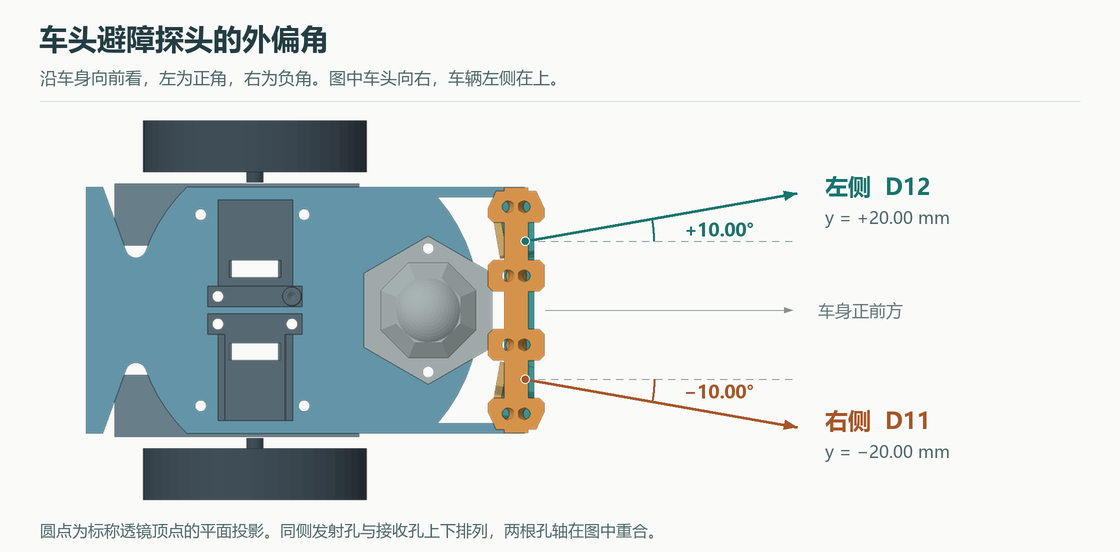
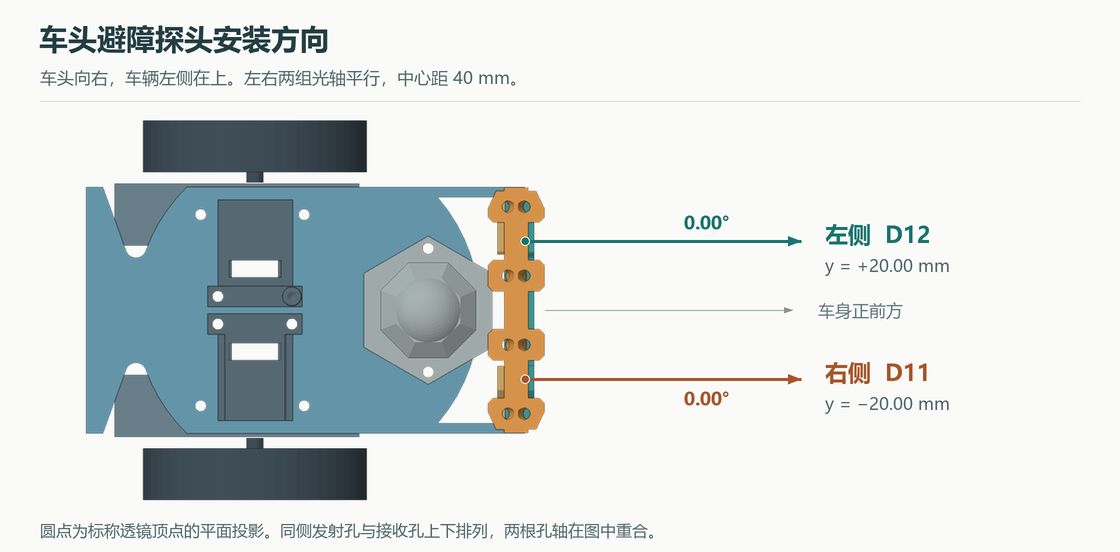
Snapshot local zero-yaw obstacle mount revision for the comparison runs

diff --git a/sim/fwsim/viewer.html b/sim/fwsim/viewer.html
@@ -185,7 +185,7 @@ if (V.plan) {
   }
   $('cadYaw').textContent = axes.map(a => {
     const deg = a.yaw * 180 / Math.PI;
-    return a.name + ' ' + (deg < 0 ? '−' : '+') + Number(Math.abs(deg).toFixed(2)) + '°';
+    return a.name + ' ' + (deg < 0 ? '−' : deg > 0 ? '+' : '') + Number(Math.abs(deg).toFixed(2)) + '°';
   }).join(' · ');
   const pitch = V.noseDown * 180 / Math.PI;
   $('cadPitch').textContent = pitch === 0 ? 'Chassis pitch 0° (level)' :

diff --git a/sim/fwsim/scenarios/line_tracker.cpp b/sim/fwsim/scenarios/line_tracker.cpp
@@ -79,18 +79,19 @@ void checkObstacleMount(Simulation& sim) {
   Vehicle car(sim.vehicleConfig(), bench);
   for (auto& sensor : car.cfg.distance) sensor.noise = 0;
   for (int side : {1, -1}) {
-    for (int bearing : {10, 20, -10}) {
-      // 1 mm diameter target, 60 mm from the CAD lens position. Test the
-      // centre ray, the outer edge, and the mirror of the centre ray inboard.
+    for (int bearing : {-20, -10, 0, 10, 20}) {
+      // Probe the centre ray, both edges of the 20-degree field, and beyond each edge.
       const double forward = 0.07825 + 0.060 * std::cos(bearing * rad);
       const double lateral = side * (0.020 + 0.060 * std::sin(bearing * rad));
       bench.circles = {{{bench.start.x - lateral, bench.start.y + forward}, 0.0005, "target"}};
       int left = -1, right = -1;
       const bool pins = car.digitalInput(sim.board(Robot), D12, left) &&
                         car.digitalInput(sim.board(Robot), D11, right);
-      const bool leftHit = side > 0 && bearing > 0, rightHit = side < 0 && bearing > 0;
+      const bool inBeam = std::abs(bearing) <= 10;
+      const bool leftHit = side > 0 && inBeam, rightHit = side < 0 && inBeam;
       const std::string label = std::string(side > 0 ? "Left" : "Right") + " mount, " +
-          std::to_string(std::abs(bearing)) + (bearing > 0 ? " deg outboard" : " deg inboard");
+          (bearing == 0 ? "straight ahead" :
+           std::to_string(std::abs(bearing)) + (bearing > 0 ? " deg outboard" : " deg inboard"));
       FWSIM_CHECK(sim, pins && left == (leftHit ? LOW : HIGH) && right == (rightHit ? LOW : HIGH), label);
     }
   }

diff --git a/docs/LINE_FOLLOWING.zh-CN.md b/docs/LINE_FOLLOWING.zh-CN.md
@@ -33,12 +33,12 @@
 | 巡线探头安装高度 | 按标称封装，两颗透镜最低点均离地 5.0 mm，从夹板底面竖直向下露出 0.5 mm。 |
 | 四个巡线光斑 | 仿真在每对管子的中心正下方采样。四个地面检测点都在轮轴前 75.75 mm，A0 到 A3 依次位于 y = −30、−10、+10、+30 mm。 |
 | 避障探头 | 按 LTE-4206 / LTR-4206 标称封装，透镜顶点在轮轴前 78.25 mm，横向 ±20.00 mm。每侧发射管在上，离地 28.25 mm，接收管在下，离地 21.75 mm。 |
-| 避障孔轴方向 | 左侧 D12 为 +10.00°，右侧 D11 为 −10.00°，两侧张角 20.00°。四个导孔相对水平底盘的俯仰均为 0.00°。 |
+| 避障孔轴方向 | 左侧 D12 和右侧 D11 均朝正前方。四个导孔相对底盘的偏航和俯仰均为 0.00°，左右两组中心距 40.00 mm。 |
 | 碰撞检测 | 圆心在轮轴前 15.25 mm，按讲义取直径 150 mm。以同一点为圆心，当前 CAD 零件的地面投影需要约 149.6 mm 的直径。 |
 
 每组对管从上方装入，凸缘落在 Ø3.45 mm 管身孔与 Ø4.50 mm 沉孔之间的台阶上。两根光轴沿前后方向各向内倾 21.8°，在地面交会。离地 5.0 mm 处两轴相距 4.0 mm，夹板底面处两轴相距 4.4 mm。固定前可用 5 mm 量规复核透镜最低点。[夹板与对管安装尺寸图](ir-pair-mount.png)
 
-从避障导孔的定位台阶走向车头孔口，距中心线从 19.262 mm 增至 20.494 mm，前进 6.985 mm。仿真从标称透镜顶点发出探测射线，80 mm 量程和 20° 全视场为仿真设定。回放的 **CAD underside** 面板可同时查看四个巡线光斑和两条避障中心线。[避障孔轴方向图](obstacle-mount-yaw.png) · [车身侧视与三个支撑点](cad-ground-contact.png)
+避障导孔的前孔口比定位台阶靠前 7.05 mm，两端距车身中心线均为 20.00 mm。仿真从标称透镜顶点发出探测射线，80 mm 量程和 20° 全视场为仿真设定。回放的 **CAD underside** 面板可同时查看四个巡线光斑和两条避障中心线。[避障孔轴方向图](obstacle-mount-yaw.png) · [车身侧视与三个支撑点](cad-ground-contact.png)
 
 ## 传感器硬件
 
@@ -52,7 +52,7 @@
 
 5 cm 宽的胶带居中时，盖住内侧两个（±10 mm），外侧两个（±30 mm）是白的，但离胶带边只有 5 mm。所以"3 个变黑、其中有一个外侧"这个现象，在弯道会出现，车只偏离中线 5–15 mm 时也会出现。为此示例程序打开了 `confirmCornerByLoss`（见状态机一节）。如果外侧传感器离对侧内侧传感器的距离超过一个胶带宽（再加上光斑大小），比如 ±15/±45 mm，就不需要这个选项；但这比 CAD 里的前横梁宽。
 
-**避障对管：** 前横梁上 ±20 mm 处各装一组 LTE/LTR 对管，向外偏 10°，经过 LM393，把阈值调到离锥桶 6–8 cm 时翻转（讲义图 5）。输出低电平表示前方有物体（`OBSTACLE_ACTIVE`）。探测距离要短：在赛道终点，场地边界墙不能触发绕障。
+**避障对管：** 前横梁上 ±20 mm 处各装一组正对前方的 LTE/LTR 对管，经过 LM393，把阈值调到离锥桶 6–8 cm 时翻转（讲义图 5）。输出低电平表示前方有物体（`OBSTACLE_ACTIVE`）。探测距离要短：在赛道终点，场地边界墙不能触发绕障。
 
 灯光和阳光里的红外会让读数漂移。请在演示的实验室里标定，并给传感器侧面加遮光。
 
@@ -105,15 +105,15 @@ bash scripts/run-fw-sim.sh track_cones            # 独立示例
 bash scripts/run-fw-sim.sh --seeds 10 track_serpentine track_cones track_cones_lm393 track_cones_on_line
 ```
 
-带锥桶的场景还单独核对避障方向。将直径 1 mm 的目标放在距各侧透镜 60 mm 处，向外 10° 和 20° 时只有对应的 D12 或 D11 拉低，向内 10° 时两路均为高电平。双板场景还检查急停和心跳中断时的 D8 电平。
+带锥桶的场景还单独核对避障方向。将直径 1 mm 的目标放在距各侧透镜 60 mm 处，目标在光轴上或向内、向外 10° 时，只有对应的 D12 或 D11 拉低。向内或向外 20° 时，两路均为高电平。双板场景还检查急停和心跳中断时的 D8 电平。
 
 | 场景 | 种子 368 | 种子 1–10 |
 | --- | --- | --- |
-| `robot_track_cones` | 演示车双板固件在 48.03 s 停车，绕障 3 次，零碰撞，巡线阶段最大偏差 4.3 mm | 10/10 |
+| `robot_track_cones` | 演示车双板固件在 49.68 s 停车，绕障 3 次，零碰撞，巡线阶段最大偏差 4.2 mm | 10/10 |
 | `track_serpentine` | 33.31 s 停车，过 6 个弯，巡线阶段最大偏差 3.0 mm | 10/10 |
-| `track_cones` | 46.06 s 停车，绕障 3 次，零碰撞 | 10/10 |
-| `track_cones_lm393` | 47.76 s 停车，绕障 3 次，零碰撞，巡线阶段最大偏差 12.0 mm | 10/10 |
-| `track_cones_on_line` | 47.47 s 停车，绕障 3 次，其中一次换侧重试，零碰撞 | 10/10 |
+| `track_cones` | 47.69 s 停车，绕障 3 次，零碰撞 | 10/10 |
+| `track_cones_lm393` | 49.35 s 停车，绕障 3 次，零碰撞，巡线阶段最大偏差 11.5 mm | 10/10 |
+| `track_cones_on_line` | 47.54 s 停车，绕障 3 次，其中一次换侧重试，零碰撞 | 10/10 |
 | `track_gesture_stop` | 收到本地 DOWN 手势后停车 | 10/10 |
 
 旧版车体的压力测试还覆盖了轮径差、陀螺仪零偏、较慢的电机、模糊光斑及锥桶移位。本轮按水平地面、刚性车轮和固定的光学响应计算。环境红外、地面反射率变化、轮胎打滑及实际镜面离地高度仍需台架测量。

diff --git a/docs/HANDOFF.zh-CN.md b/docs/HANDOFF.zh-CN.md
@@ -7,9 +7,9 @@
 演示车已确认采用 **A0–A3 直连四路模拟巡线**。车载入口为 `firmware/robot/robot.ino`，手持入口为 `firmware/remote/remote.ino`。共用的引脚、轮径、编码器比例和标定参数在 `libraries/Mech368Tracker/src/DirectLineTracker.cpp`。第 1–9 节保留上一轮的历史记录。
 
 - **操作**　心跳正常时，在车上向上挥手开始标定和巡线。在遥控器串口输入 `e` 可急停。车上任一方向的新手势都可解除锁存，之后需要新的有效心跳和单独一次向上手势才能开动。断链重连后也要重新向上挥手。
-- **当前 CAD**　`Car/寻线小车装配体.SLDASM` 默认配置包含巡线夹板、车头避障支架和两块压片。14.9 mm 垫片使万向球和两只驱动轮在 0.01 mm 内共面，仿真俯角取 0°。巡线夹板下表面离地 5.5 mm，透镜标称离地 5.0 mm，四个光斑在轮轴前 75.75 mm、横向 ±10 和 ±30 mm。避障透镜标称在轮轴前 78.25 mm、横向 ±20 mm。装配孔轴实测左 D12 为 +10.00°、右 D11 为 −10.00°，均相对底盘水平。第 4、6、7、8 节中的几何和测试数字属于早期版本。[当前尺寸与赛道结果](LINE_FOLLOWING.zh-CN.md)
+- **当前 CAD**　`Car/寻线小车装配体.SLDASM` 默认配置包含巡线夹板、车头避障支架和两块压片。14.9 mm 垫片使万向球和两只驱动轮在 0.01 mm 内共面，仿真俯角取 0°。巡线夹板下表面离地 5.5 mm，透镜标称离地 5.0 mm，四个光斑在轮轴前 75.75 mm、横向 ±10 和 ±30 mm。避障透镜标称在轮轴前 78.25 mm、横向 ±20 mm。装配孔轴实测左 D12 和右 D11 均为 0.00°，水平朝前，中心距 40.00 mm。打印一套需要车头避障支架 1 件、通用压片 2 件。第 4、6、7、8 节中的几何和测试数字属于早期版本。[当前尺寸与赛道结果](LINE_FOLLOWING.zh-CN.md)
 - **验证**　车载、遥控和独立巡线示例均通过 Nano 目标编译（Mbed Nano 4.6.0）。四组主机测试和全部 27 个固件仿真场景通过。五个双板场景和五个独立巡线场景各跑种子 1–10，共 100 次通过。
-- **仿真结果**　种子 368 下，车载固件绕过三个锥桶，零碰撞，在 48.03 s 发出终点停车指令，巡线阶段最大偏差 4.3 mm。心跳中断测试中，种子 1–10 从最后一个送达的心跳到 D8 拉低用时 449.41–451.54 ms。运行 `bash scripts/run-fw-sim.sh robot_track_cones robot_track_watchdog robot_track_estop` 可重建回放。
+- **仿真结果**　种子 368 下，车载固件绕过三个锥桶，零碰撞，在 49.68 s 发出终点停车指令，巡线阶段最大偏差 4.2 mm。心跳中断测试中，种子 1–10 从最后一个送达的心跳到 D8 拉低用时 449.41–451.54 ms。运行 `bash scripts/run-fw-sim.sh robot_track_cones robot_track_watchdog robot_track_estop` 可重建回放。
 - **实车下一步**　先在台架核对 D8 与电桥输出的停车时序，再量轮速、编码器方向及每圈计数、黑白读数和避障距离。电池低电指示、遥控器倾角驾驶和车载温度建图仍待完成。[接线与调参](LINE_FOLLOWING.zh-CN.md)
 
 ## 1. 项目背景
@@ -85,7 +85,7 @@ bash scripts/run-fw-sim.sh --seeds 10 track_serpentine track_cones track_cones_l
 | 外包络 | Ø148 mm，圆心在轮轴前 15.25 mm |
 | 传感器所在线 | 前横梁上、离前沿 2 mm，即轮轴前 78.25 mm |
 | 巡线传感器 | y = −30、−10、+10、+30 mm（A0 = −30，最右） |
-| 避障传感器 | y = ±20 mm，向外偏 10° |
+| 避障传感器 | 当时为 y = ±20 mm、向外偏 10°，现版已改为平行朝前。 |
 
 ## 5. 当前接线（`line_tracker.ino` 和仿真车辆文件一致）
 
